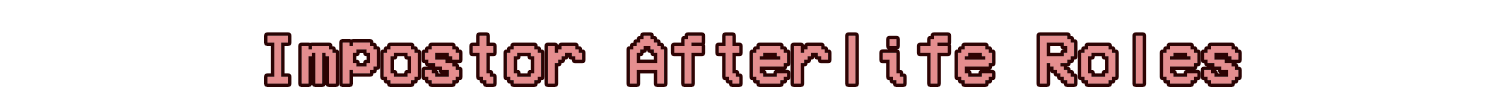
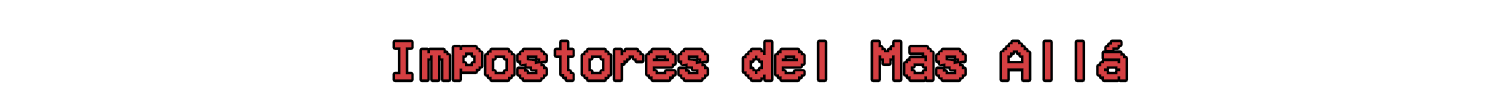
Town of Plus

Changed region(s): [[0.1533, 0.2727, 0.828, 0.7909]]

diff --git a/obj/Debug/net6.0/Townofplus.AssemblyInfo.cs b/obj/Debug/net6.0/Townofplus.AssemblyInfo.cs
@@ -13,7 +13,7 @@ using System.Reflection;
 [assembly: System.Reflection.AssemblyCompanyAttribute("TownOfPlus")]
 [assembly: System.Reflection.AssemblyConfigurationAttribute("Debug")]
 [assembly: System.Reflection.AssemblyFileVersionAttribute("1.0.8.0")]
-[assembly: System.Reflection.AssemblyInformationalVersionAttribute("1.0.8+da8b3611350ee9cc5f329103036a8c85042d61ec")]
+[assembly: System.Reflection.AssemblyInformationalVersionAttribute("1.0.8+9991c59b9f40d112b2de69b28b27810846f823e5")]
 [assembly: System.Reflection.AssemblyProductAttribute("TownOfPlus")]
 [assembly: System.Reflection.AssemblyTitleAttribute("TownOfPlus")]
 [assembly: System.Reflection.AssemblyVersionAttribute("1.0.8.0")]

diff --git a/README.md b/README.md
@@ -3,7 +3,7 @@
 > Este mod requiere que Town of Us: Mira esté instalado y NO es para versiones de consola de Among Us.
 
 <div align="center">
-  <a href="#"><img src="./Resources/Banners/TownOfPlusLogo.png" alt="Town Of Plus"/></a>
+  <a href="#"><img src="./Resources/Headers/townofplus.png" alt="Town Of Plus"/></a>
   <p>Town Of Plus</p>
 </div>
 <br/>
@@ -28,13 +28,13 @@ nuevos roles y modificadores sobre [Town Of Us – Mira](https://github.com/AU-A
   <a href="#"><img width="10%" src="./Resources/Icons/cerrajero.png" alt="Cerrajero"/></a>
   <a href="#"><img width="10%" src="./Resources/Icons/Huesped.png" alt="Huésped"/></a>
   <a href="#"><img width="10%" src="./Resources/Icons/Eco.png" alt="Eco"/></a>
-  <img src="./Resources/Headers/ImpSupport.png" alt="Impostor Soporte"/>
+  <img src="./Resources/Headers/ImpApoy.png" alt="Impostor Soporte"/>
   <a href="#"><img width="10%" src="./Resources/Icons/Abogado.png" alt="Abogado"/></a>
-  <img src="./Resources/Headers/ImpConcealing.png" alt="Impostor Ocultamiento"/>
+  <img src="./Resources/Headers/ImpOcul.png" alt="Impostor Ocultamiento"/>
   <a href="#"><img width="10%" src="./Resources/Icons/Kamikaze.png" alt="Kamikaze"/></a>
-  <img src="./Resources/Headers/ImpKilling.png" alt="Impostor Eliminación"/>
+  <img src="./Resources/Headers/ImpAsesin.png" alt="Impostor Eliminación"/>
   <a href="#"><img width="10%" src="./Resources/Icons/francotirador.png" alt="Francotirador"/></a>
-  <img src="./Resources/Headers/ImpPower.png" alt="Impostor Poder"/>
+  <img src="./Resources/Headers/ImpSupe.png" alt="Impostor Poder"/>
   <a href="#"><img width="10%" src="./Resources/Icons/Dictador.png" alt="Dictador"/></a>
   <img src="./Resources/Headers/ImpAfterlife.png" alt="Impostor Más Allá"/>
   <a href="#"><img width="10%" src="./Resources/Icons/Saboteador.png" alt="Saboteador"/></a>
